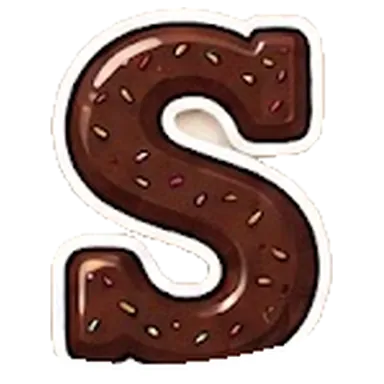
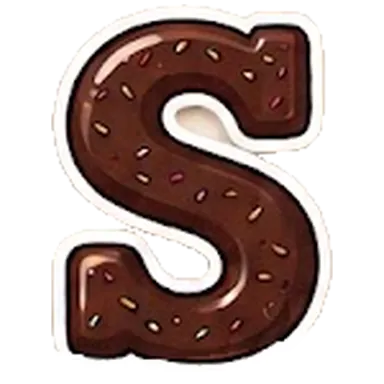
Chocoladeletter: de onderkant van de S aangevuld in plaats van recht afgesneden
De onderkant zat achter de tekstband. Een S is hetzelfde na een halve slag draaien:
knip7.py zoekt het draaipunt (past 97%) en vult de verborgen onderkant met de gedraaide bovenkant.

Claude-Session: https://claude.ai/code/session_01K1CPwwE3fPNPfXt5jEdw4k

diff --git a/tests/tools/knip7.py b/tests/tools/knip7.py
@@ -65,6 +65,30 @@ for (k, (sy, sx)), naam in zip(groot, ALLE):
         onder = np.arange(y1 - y0)[:, None] > grens[None, :]
         blijft = voor & ~onder
         kern = blijft & ((vak.min(2) < 222) | (vak.max(2) - vak.min(2) > 30))      # wat geen witte rand is
+        if naam == 'chocoladeletter':
+            # De onderkant van de S zat achter de tekst. Een S is hetzelfde als je hem een halve slag draait: zoek het
+            # draaipunt waarbij de gedraaide S het best op de zichtbare S past, en vul de verborgen onderkant daarmee.
+            S = nd.binary_opening(kern, iterations=2)
+            lab3, _ = nd.label(S); S = lab3 == (1 + np.argmax(np.bincount(lab3.ravel())[1:]))
+            ys3, xs3 = np.nonzero(S); h3, w3 = S.shape; best = None
+            for cy2 in range(int(ys3.mean()) * 2 - 10, int(ys3.mean()) * 2 + 60):        # 2 x draaipunt (halve pixels)
+                for cx2 in range(int(xs3.mean()) * 2 - 20, int(xs3.mean()) * 2 + 21):
+                    ry, rx = cy2 - ys3, cx2 - xs3
+                    ok = (ry >= 0) & (ry < h3) & (rx >= 0) & (rx < w3)
+                    if ok.sum() < 0.8 * len(ys3): continue
+                    zicht = ~onder[ry[ok], rx[ok]]
+                    score = (S[ry[ok], rx[ok]] & zicht).sum() / max(1, zicht.sum())
+                    if best is None or score > best[0]: best = (score, cy2, cx2)
+            _, cy2, cx2 = best
+            yy3, xx3 = np.nonzero(onder & (np.arange(h3)[:, None] < h3))
+            ry, rx = cy2 - yy3, cx2 - xx3
+            ok = (ry >= 0) & (ry < h3) & (rx >= 0) & (rx < w3)
+            yy3, xx3, ry, rx = yy3[ok], xx3[ok], ry[ok], rx[ok]
+            vul = S[ry, rx]
+            vak[yy3[vul], xx3[vul]] = vak[ry[vul], rx[vul]]
+            kern[yy3[vul], xx3[vul]] = True; voor[yy3[vul], xx3[vul]] = True
+            blijft = blijft | kern
+            print('   %s: onderkant van de S aangevuld (draaipunt %.1f, %.1f; past %.0f%%)' % (nr, cx2 / 2, cy2 / 2, best[0] * 100))
         kern = nd.binary_opening(kern, iterations=1)                                # losse randpixeltjes weg
         lab2, n2 = nd.label(kern); maten = nd.sum(kern, lab2, range(1, n2 + 1))
         kern = np.isin(lab2, [i + 1 for i, m_ in enumerate(maten) if m_ >= 25])     # kruimels van de tekst niet meenemen
